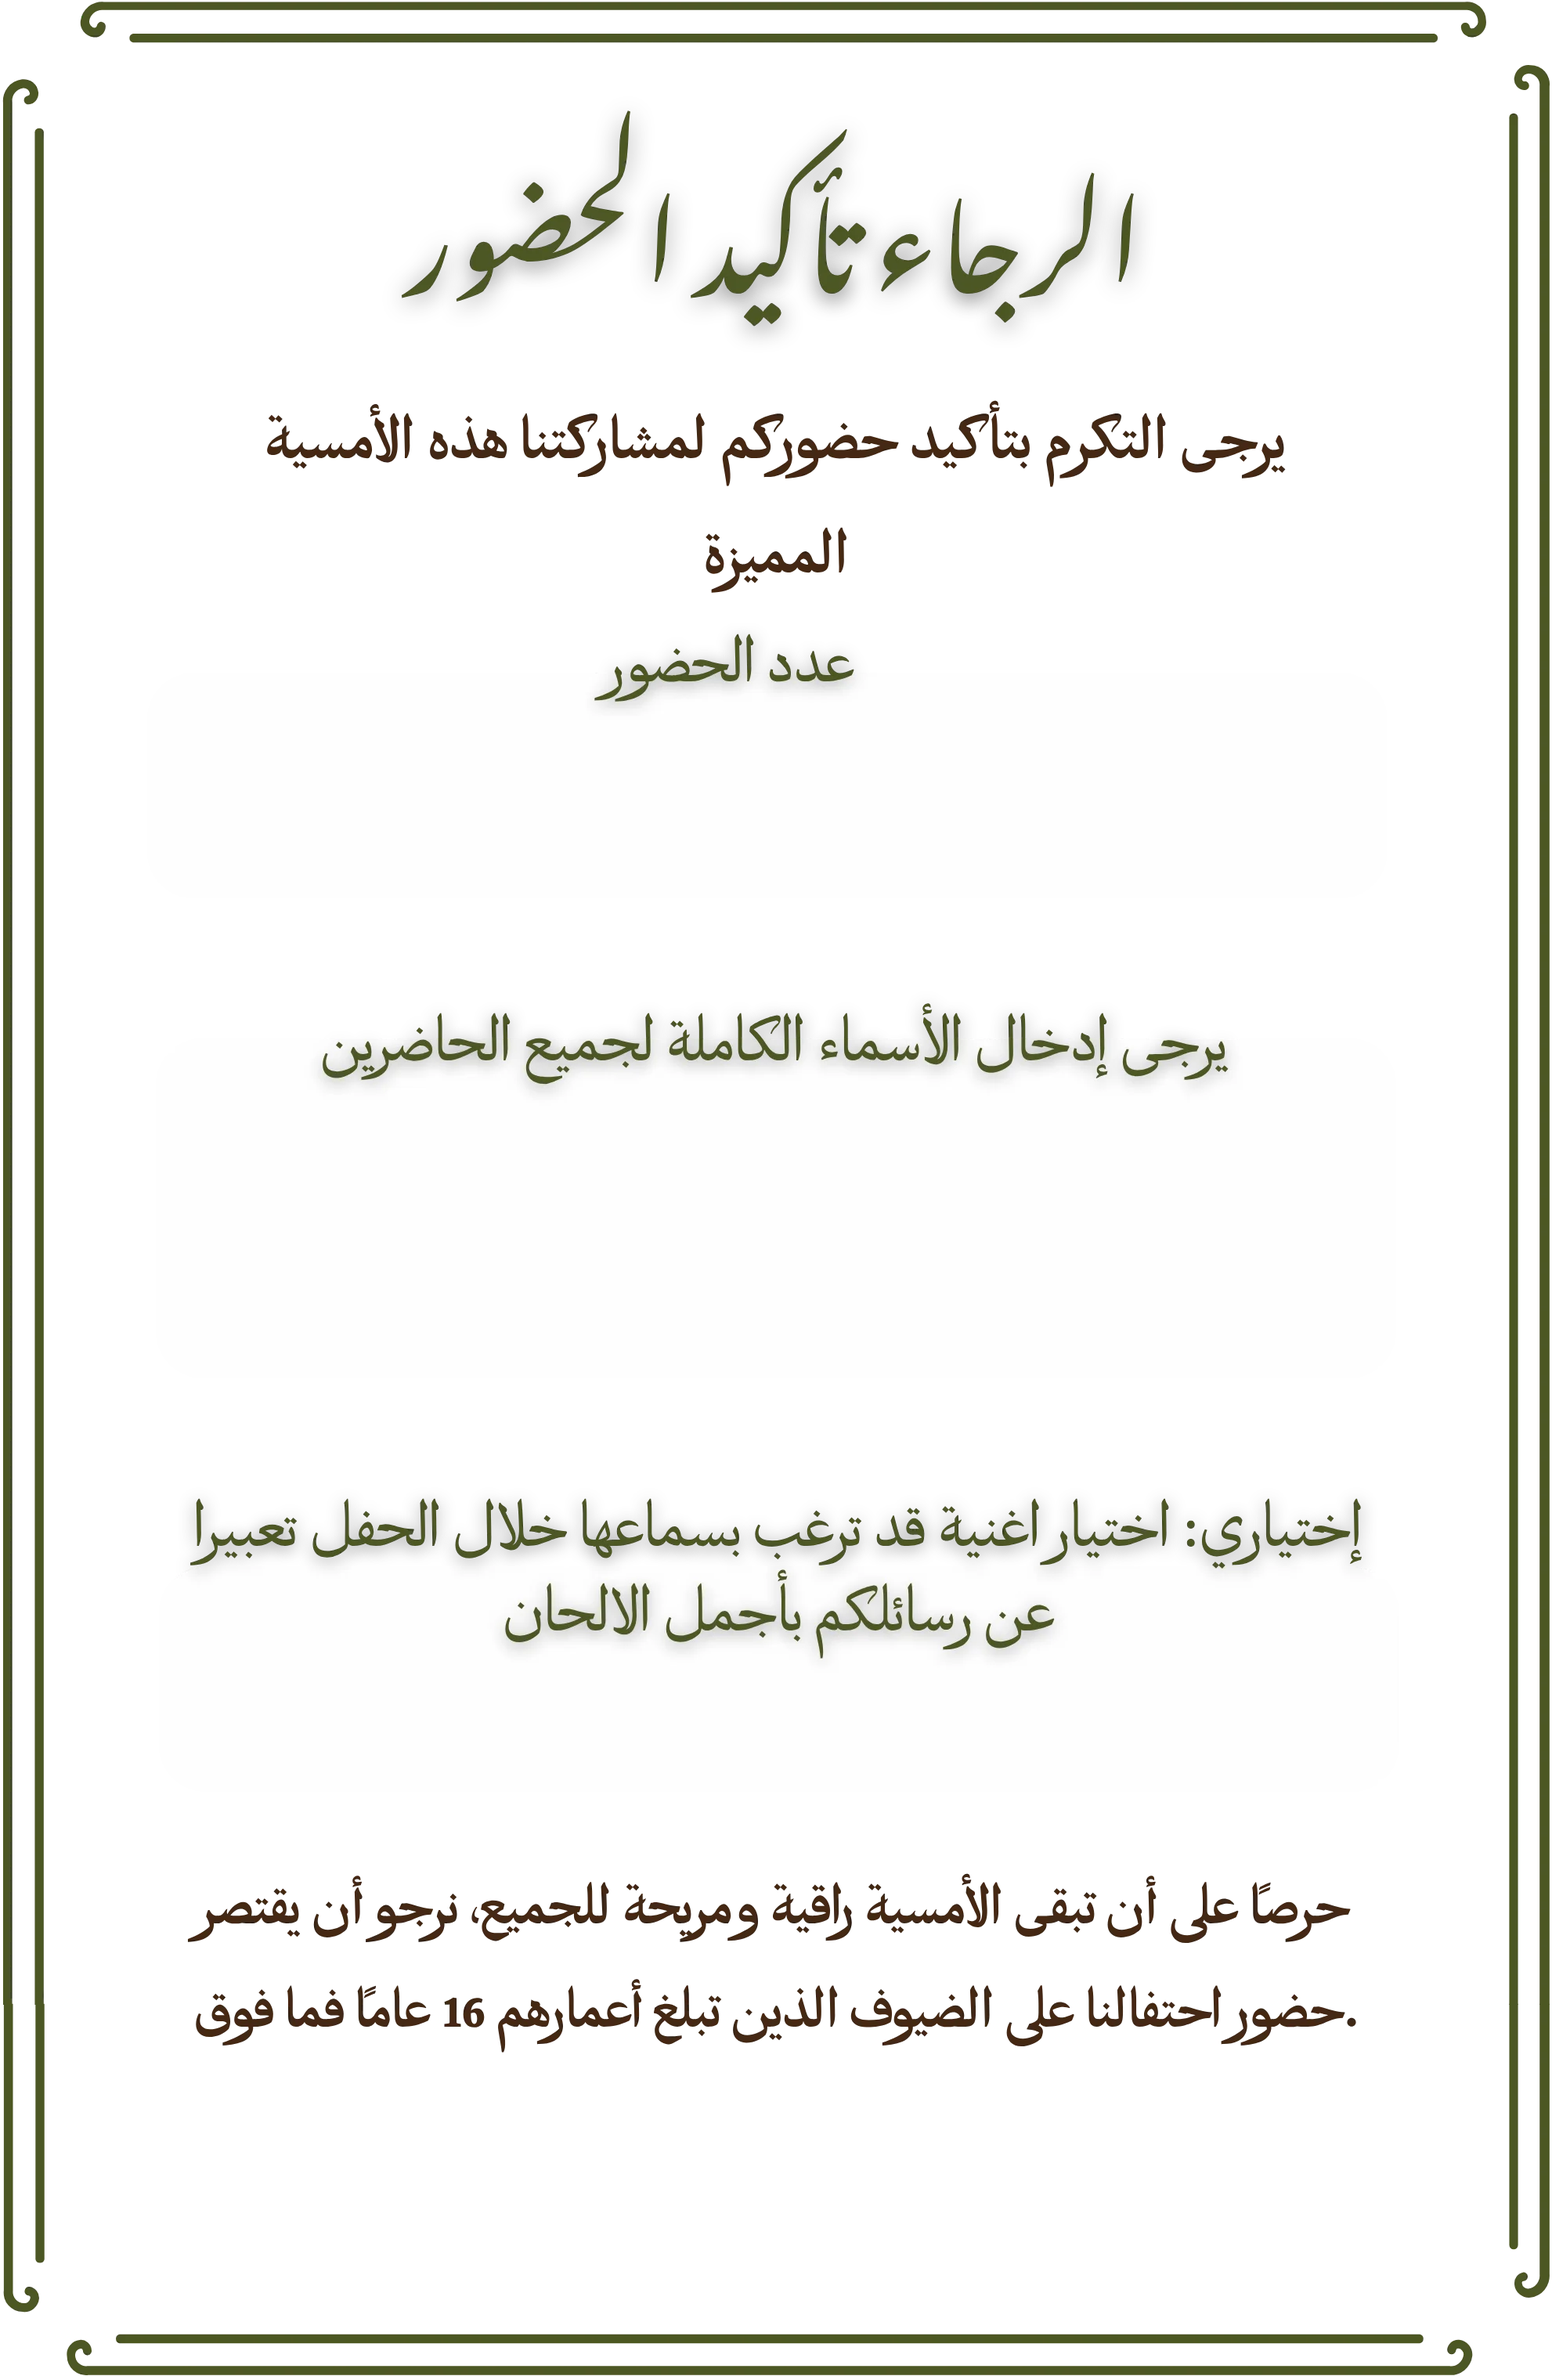
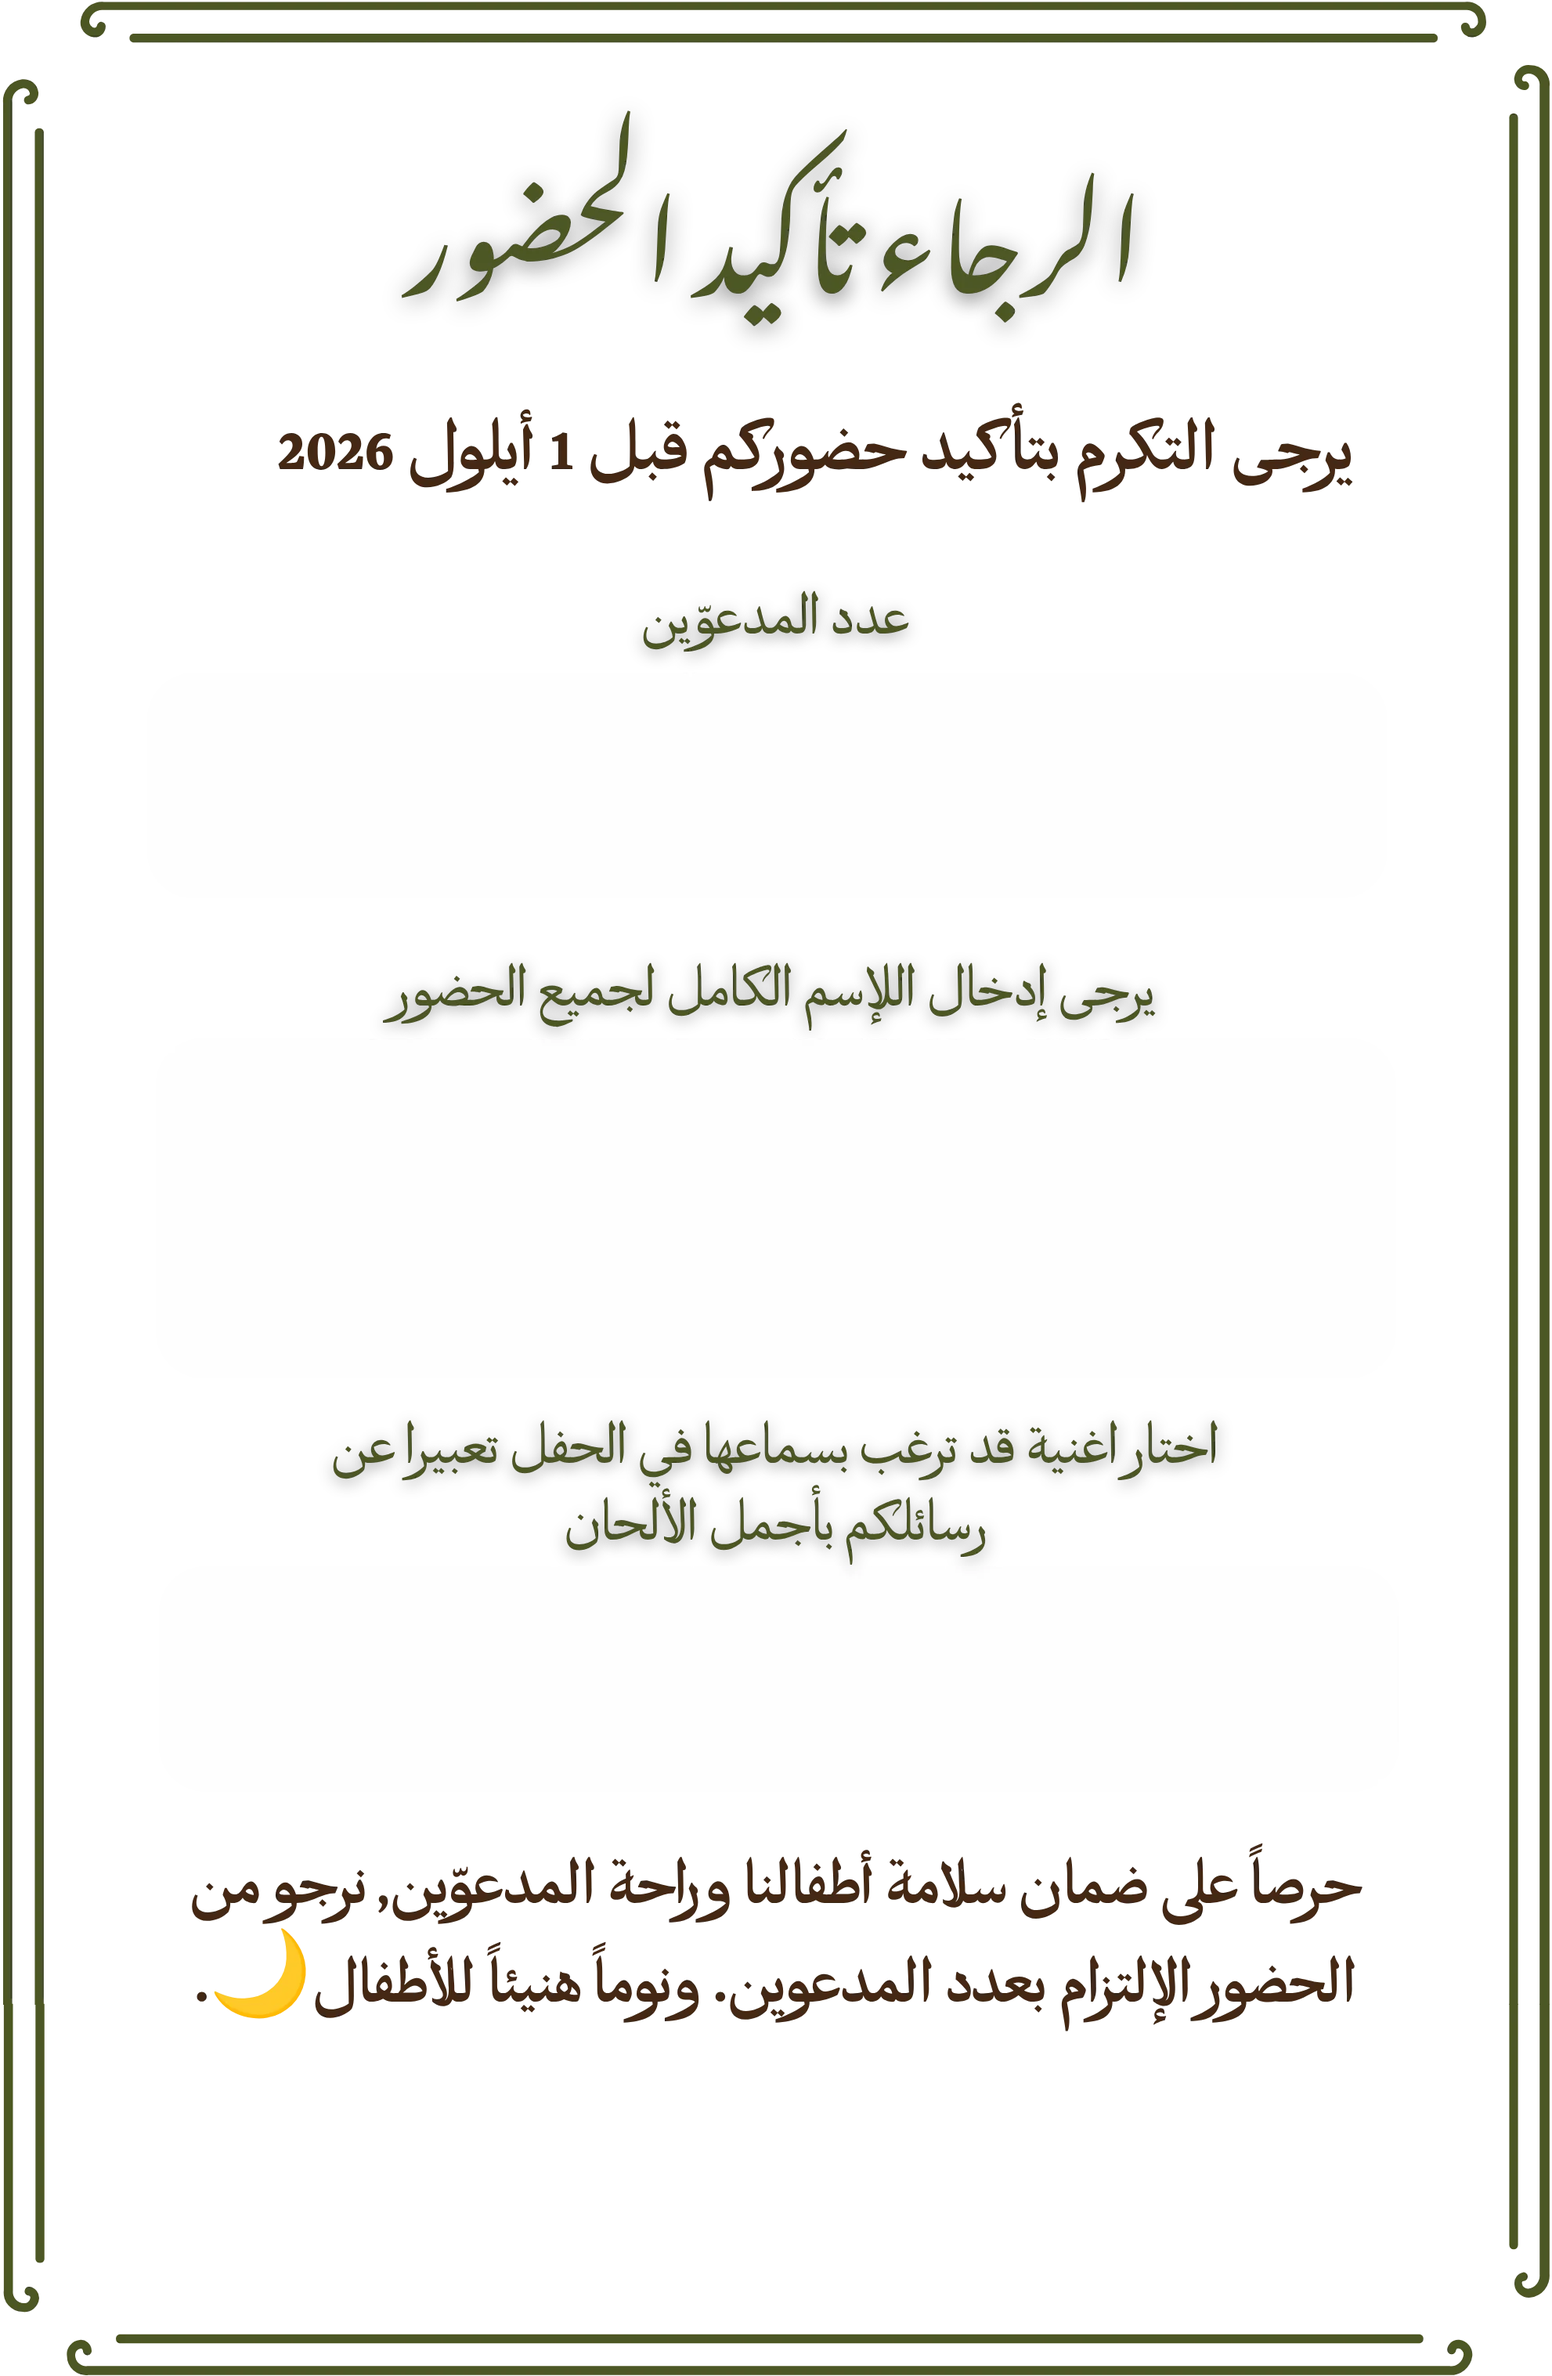
rsvp change text

diff --git a/Wedding/src/App.jsx b/Wedding/src/App.jsx
@@ -708,7 +708,11 @@ function App() {
                   className="rsvp-field rsvp-names-field"
                   name="attendee-names"
                   required
-                  placeholder="Example: Ahmad Annan, Rania Rahhal,..."
+                  placeholder={
+                    invitationLanguage === 'arabic'
+                      ? '(مثال: أحمد محمد\n\nضيف واحد مدعو.)'
+                      : '(e.g. John Smith\n\n1 invited guests.)'
+                  }
                   aria-label={invitationLanguage === 'arabic' ? 'الأسماء الكاملة لجميع الحاضرين' : 'Full names of all attendees'}
                 />
 
